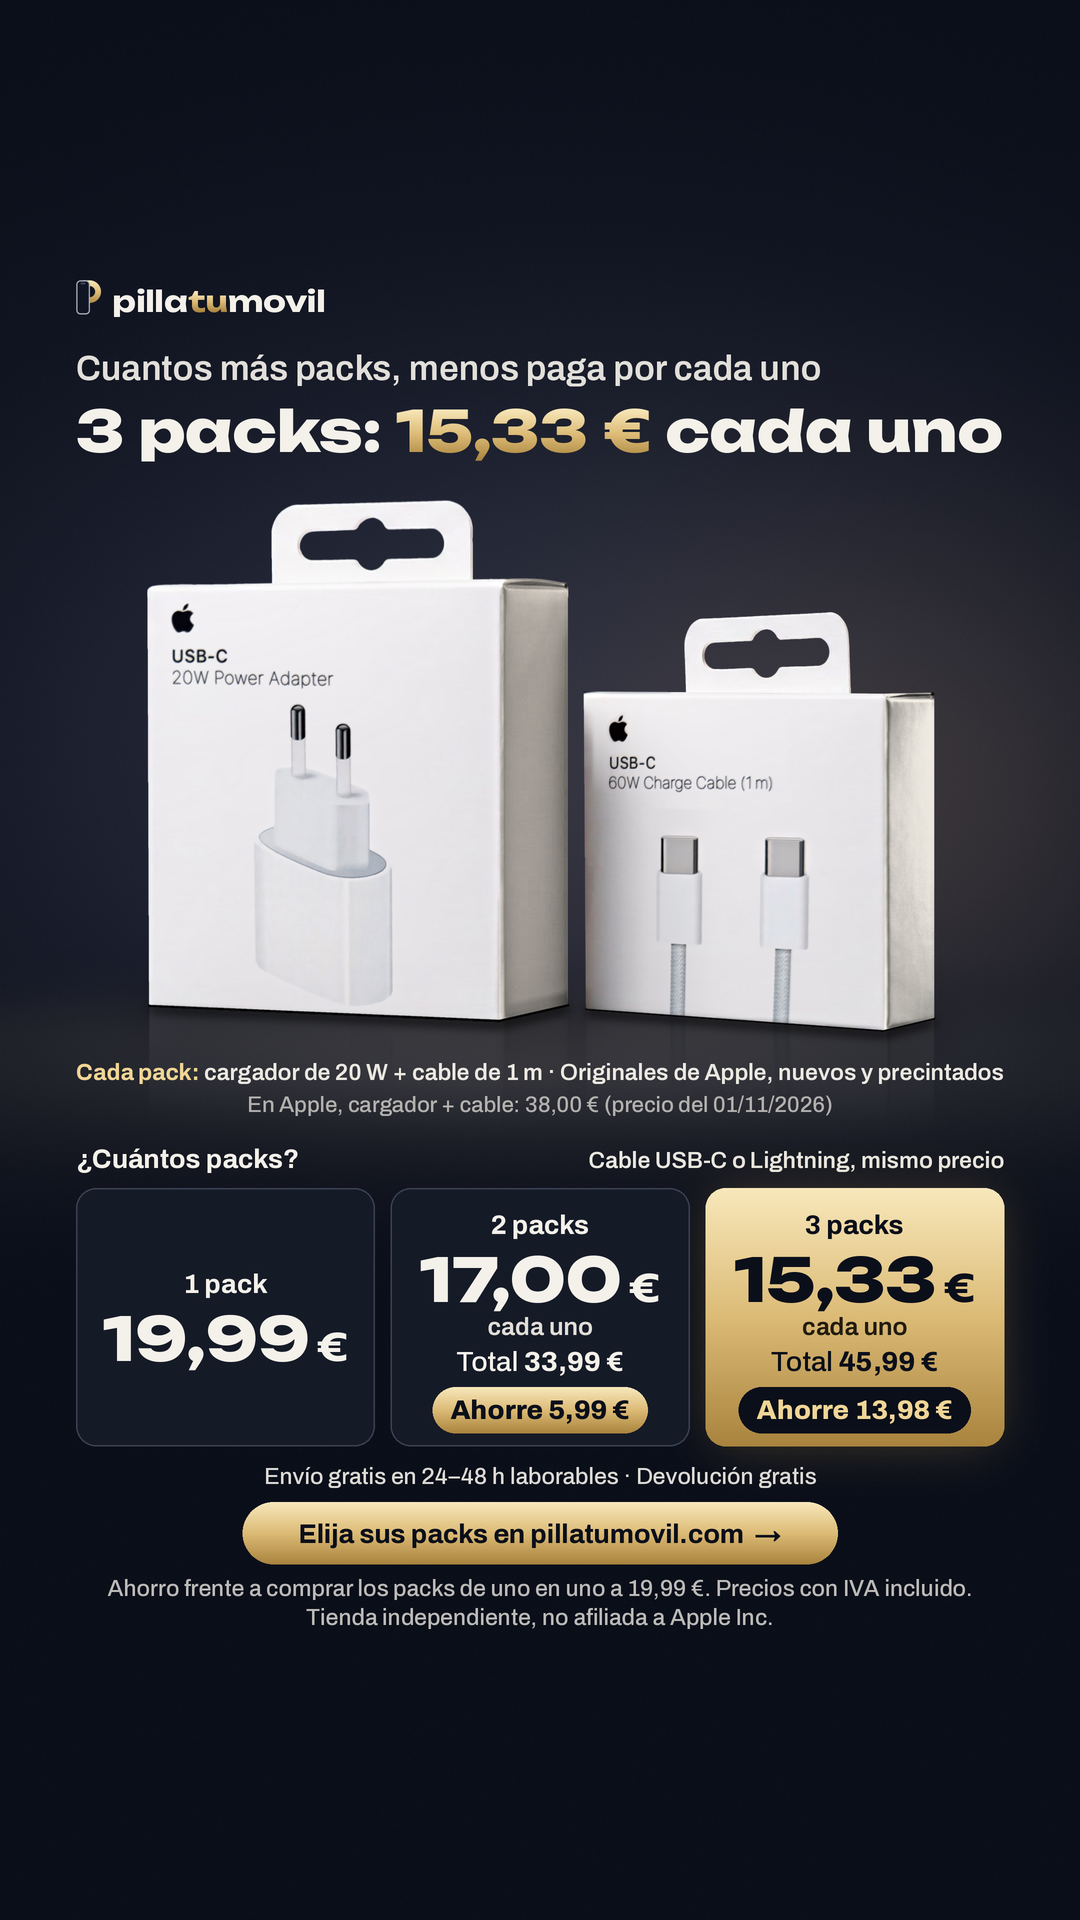
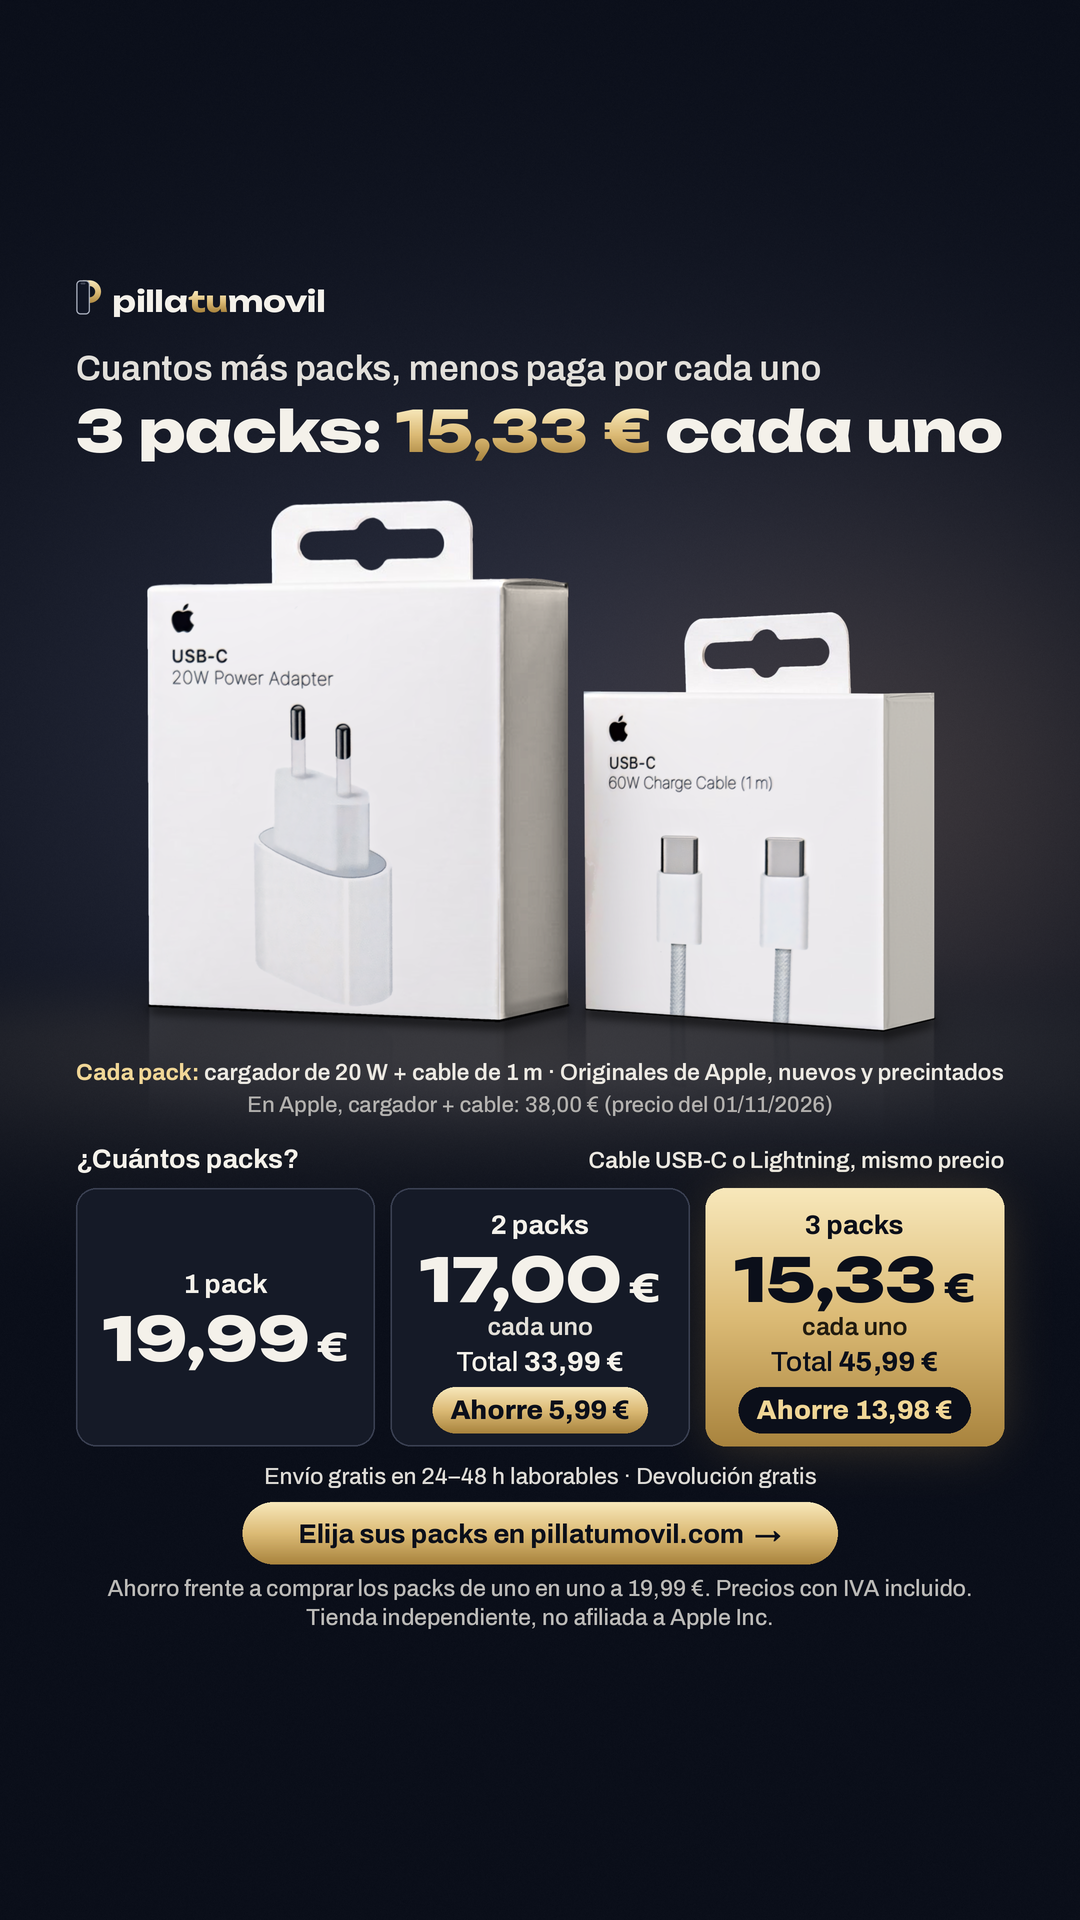
Anuncio de imagen de packs: caja del cable sin tonos negros en los lados
Lo pidió el dueño: lateral liso con sombra suave, como la caja del cargador.

Claude-Session: https://claude.ai/code/session_01Nc9WKw6CJWQJZcFTdaUv41

Changed region(s): [[0.7944, 0.3438, 0.8861, 0.5312], [0.5194, 0.375, 0.6111, 0.5312]]

diff --git a/pillatumovil/anuncios/2026-11/imagen-packs/recorte.py b/pillatumovil/anuncios/2026-11/imagen-packs/recorte.py
@@ -660,9 +660,21 @@ def _pintar_cara(nombre, dst_q, size, k):
     if SUAVE_IMPRESION > 0:
         Rd = cv2.GaussianBlur(Rd, (0, 0), SUAVE_IMPRESION * k / 2)
     S = _luz_frontal(nombre)
+    if nombre == 'cable' and SOMBRA_CABLE < 1:
+        # 23/11 (dueño): «en la caja del cable veo tonalidades negras oscuras en los laterales; un poquito de sombra
+        # como la caja del enchufe, vale, pero no esos colores negros». La sombra del cargador sobre el cable (borde
+        # izquierdo) se queda en una fracción de su fuerza.
+        Lm = S.mean(2)
+        ref = np.percentile(Lm, 95)
+        S = S + (np.clip(ref - Lm, 0, None) * (1 - SOMBRA_CABLE))[..., None]
     M2 = cv2.getPerspectiveTransform(np.float32([(0, 0), (S.shape[1], 0), (S.shape[1], S.shape[0]), (0, S.shape[0])]), dst_q)
     Sd = cv2.warpPerspective(S, M2, (Ws, Hs), flags=cv2.INTER_LINEAR, borderMode=cv2.BORDER_REPLICATE)
     return Sd * Rd
+
+
+SOMBRA_CABLE = 0.35          # fuerza de la sombra del cargador sobre el frontal del cable (1 = la de la foto)
+LATERAL_CABLE_LISO = True     # lateral del cable liso (sin las vetas oscuras de la foto)
+LATERAL_CABLE_Y = 158.0       # tono del lateral antes del aclarado de hacer.py (queda ~190, más claro que el del cargador)
 
 
 def _caja_cable(escala, fuente_rgb, fuente_alfa, size):
@@ -734,6 +746,13 @@ def _caja_cable(escala, fuente_rgb, fuente_alfa, size):
     M3 = cv2.getPerspectiveTransform(src_l, dst_l)
     lado = cv2.warpPerspective(f_rgb, M3, (Ws, Hs), flags=cv2.INTER_LINEAR, borderMode=cv2.BORDER_REPLICATE)
     Yl = lado @ np.array([0.30, 0.59, 0.11], np.float32)
+    if LATERAL_CABLE_LISO:
+        # 23/11 (dueño): el lateral salía con vetas oscuras (parecía metal). Ahora es cartón blanco liso en sombra
+        # suave, como el lateral del cargador: tono uniforme con un leve degradado vertical y solo el grano fino.
+        d = np.array(P(g['BR']), np.float32) - np.array(P(g['TR']), np.float32)
+        tv = np.clip(((yy - P(g['TR'])[1]) / max(d[1], 1)), 0, 1)
+        grano = Yl - cv2.GaussianBlur(Yl, (0, 0), 1.2 * k)
+        Yl = LATERAL_CABLE_Y * (1.04 - 0.10 * tv) + 0.35 * grano
     lado = np.clip(Yl[..., None] * np.array(TINTE_LATERAL, np.float32), 0, 255)
 
     # ---- composición (pestaña detrás, caja delante)

diff --git a/pillatumovil/anuncios/2026-11/LEEME.md b/pillatumovil/anuncios/2026-11/LEEME.md
@@ -315,3 +315,4 @@ Por qué: casi no había carritos. Meta contaba unos 12 del 05/11 al 09/11, pero
   - Formatos: `anuncio_4x5.png` (Feed), `anuncio_9x16.png` (solo Stories) y `anuncio_9x16_reels.png` (solo Reels, todo por encima de y 1240). Versiones `_dic` con el pack suelto a 19,99 € para el 01/12.
   - `hacer.py` (precios como parámetros) y `recorte.py` (recorte de las cajas). Textos para Meta y calendario en `texto_meta.txt`.
   - El dueño: «está mucho mejor… le quite un pelín de oscuridad a las cajas… le veo mucha sombra». Se aclaró la luz de las cajas sin tocar la tinta (`ACLARAR_GAMMA` en `hacer.py`): frontales de 218 a 230 y lateral del cargador de 95 a 135.
+  - 23/11, el dueño: «la caja del cable… veo tonalidades negras oscuras en los laterales… un poquito de sombra como la caja del enchufe, vale, pero no esos colores negros». El lateral del cable es ahora cartón liso en sombra suave (sin las vetas de la foto) y la sombra del cargador sobre el cable queda al 35 % (`LATERAL_CABLE_LISO`, `SOMBRA_CABLE` en `recorte.py`).
